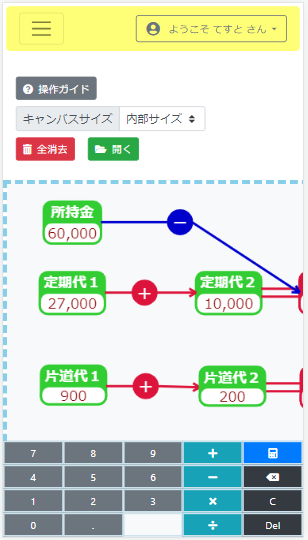
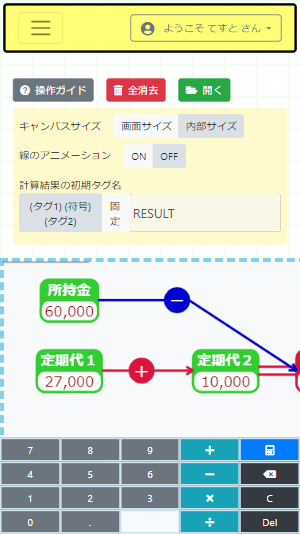
5/19　画像更新

diff --git a/css/base.css b/css/base.css
@@ -19,3 +19,37 @@
 .reverse-y{
 	transform: scale(1, -1);
 }
+
+#header-nav{
+	background-color: #ffff77;
+	border-style: solid;
+	border-color: #000000;
+}
+
+body{
+	padding-bottom: 100px;
+
+	background-image:  linear-gradient(#f0fff0 2px, transparent 2px), linear-gradient(to right, #f0fff0 2px, #ffffff 2px);
+	background-size: 40px 40px;
+}
+
+td{
+	background-color: white;
+}
+
+.mw-250{
+	max-width: 250px;
+}
+
+.mw-500{
+	max-width: 500px;
+}
+
+@media screen and (max-width: 768px) {
+	.btn{
+		font-size: 80% !important;
+	}
+	tr{
+		font-size: 80%;
+	}
+}

diff --git a/index.html b/index.html
@@ -38,7 +38,7 @@
 
 <!-- 共通ヘッダー読込 -->
 <header class="mb-4">
-<nav class="navbar navbar-expand-sm navbar-light rounded-lg m-1" style="background-color: #ffff77;">
+<nav id="header-nav" class="navbar navbar-expand-sm navbar-light rounded-lg m-1">
 	<button class="navbar-toggler" type="button" data-toggle="collapse" data-target="#navbarNav" aria-controls="navbarNav" aria-expanded="false">
 		<span class="navbar-toggler-icon"></span>
 	</button>
